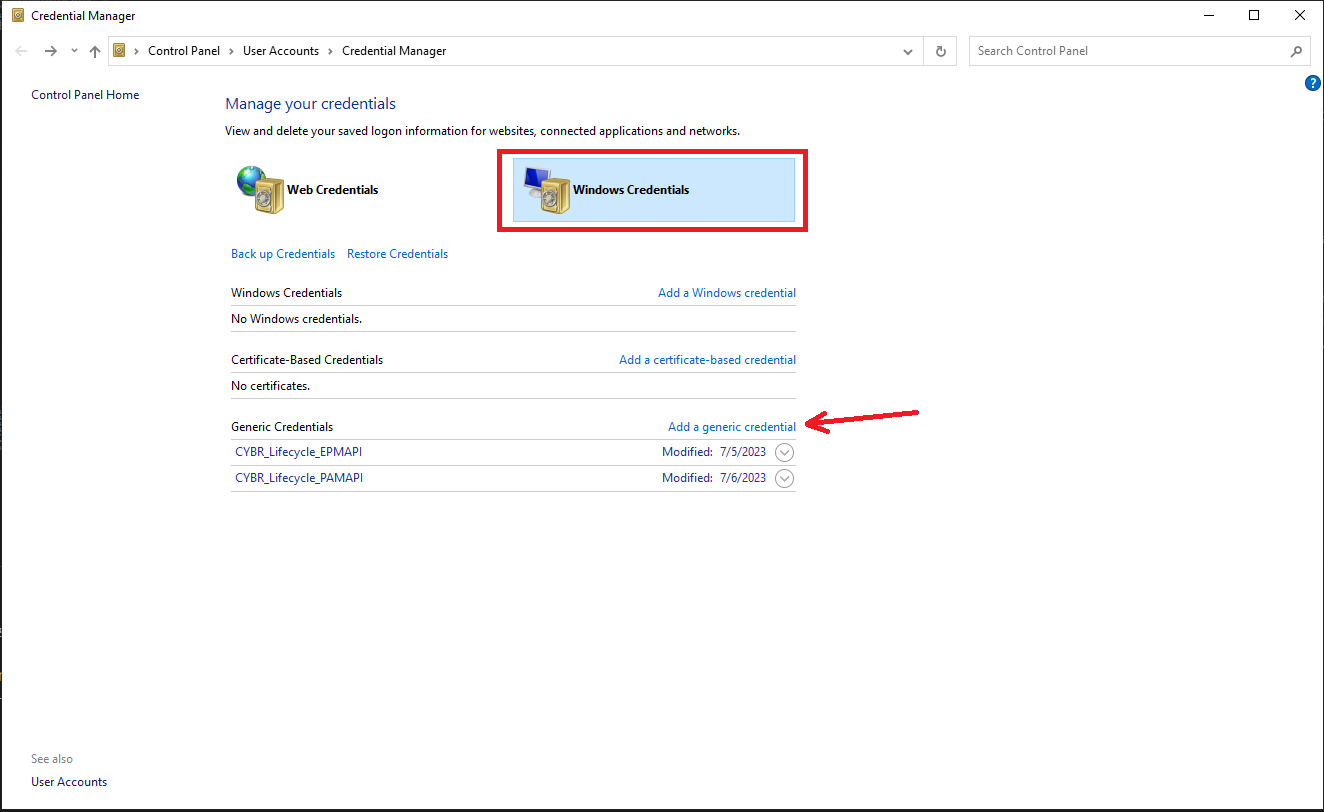
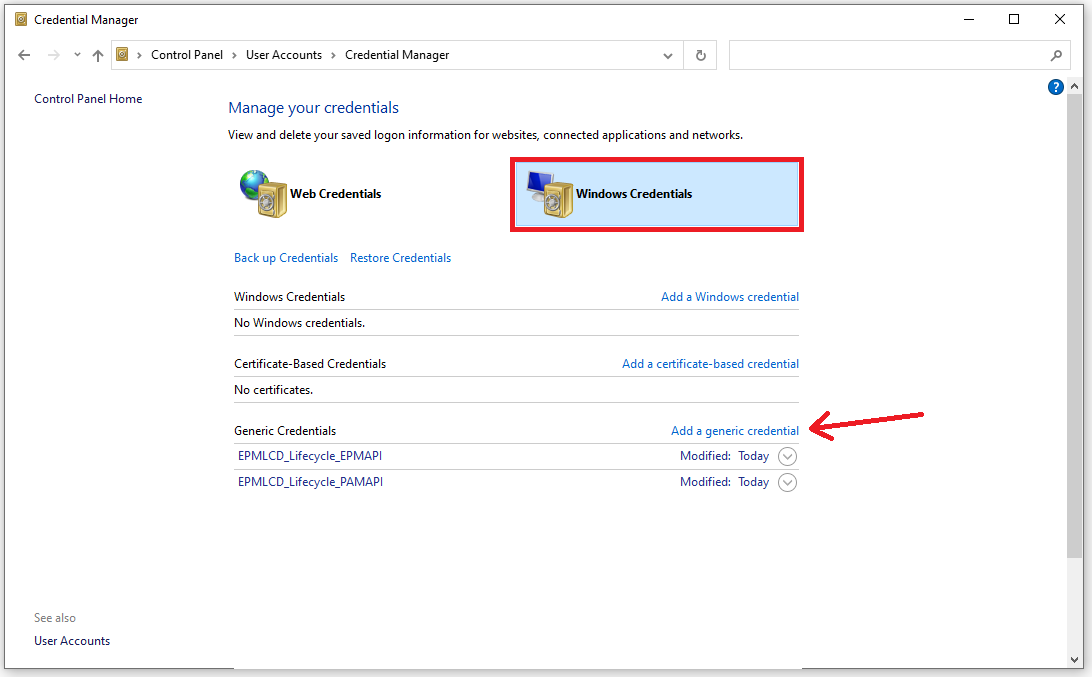
Documentation Updates

diff --git a/README.md b/README.md
@@ -151,7 +151,7 @@ You must populate all three fields:
 
 In the populated example shown above, if we consider this as the PAM API credential, then `$PAMCredTarget` would need to be set as follows:
 ```powershell 
-$PAMCredTarget = "CYBR_Lifecycle_PAMAPI"
+$PAMCredTarget = "EPMLCD_Lifecycle_PAMAPI"
 ```
 
 ## Running via Scheduled Task (Non-Interactively)
